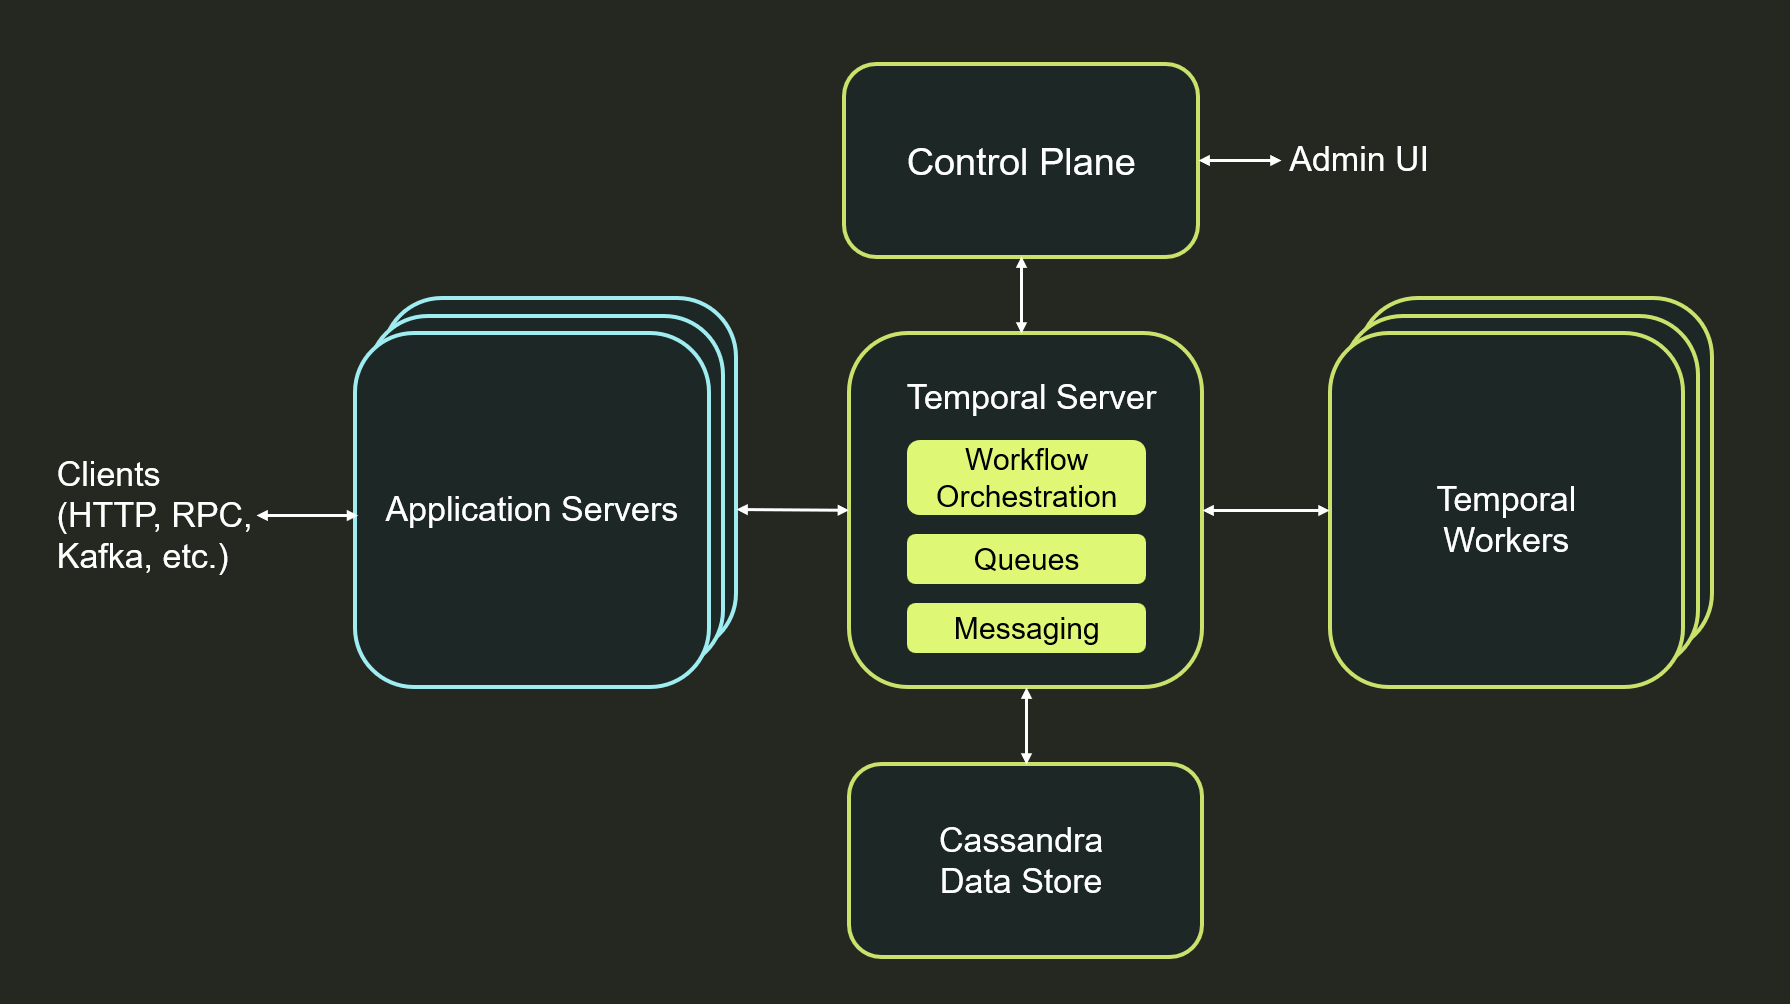
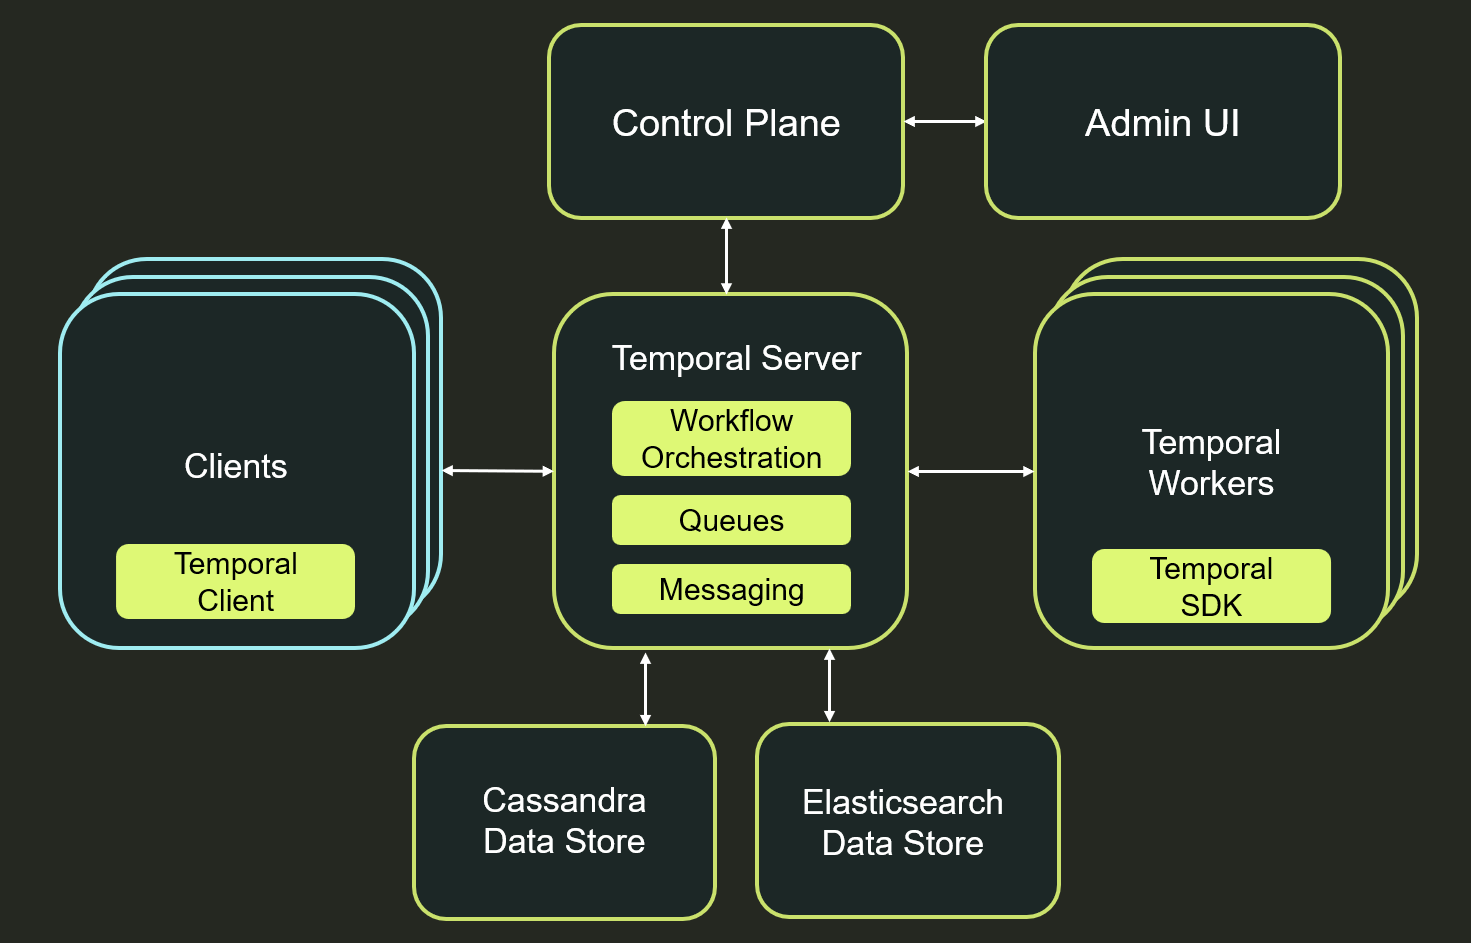
progress

diff --git a/docs/explanations/comparing-temporal.md b/docs/explanations/comparing-temporal.md
@@ -5,7 +5,7 @@ hide_table_of_contents: false
 ---
 
 DBOS and Temporal both provide durable workflows.
-The main difference is that DBOS is a lightweight Postgres-backed library, while Temporal is an external orchestration service.
+The main difference is that Temporal implements durable workflows in a heavyweight orchestration service, whereas DBOS implements them in a Postgres-backed library.
 In our opinion, the DBOS architecture is simpler to adopt and operate.
 
 :::info
@@ -14,22 +14,24 @@ To learn how to migrate an application from Temporal to DBOS, see the [migration
 
 ### Simpler Architecture
 
-To add DBOS to an application, you install the open-source library and annotate workflows and steps.
-The library checkpoints workflows to your database and recovers workflows from failures.
-Because DBOS is just a library, you don't need to change how your application is architected or deployed&mdash;it can run on any infrastructure connected to any Postgres-compatible database.
-
-<img src={require('@site/static/img/architecture/dbos-architecture.png').default} alt="DBOS Architecture" width="750" className="custom-img"/>
-
-By contrast, Temporal is designed around a central workflow server that orchestrates workflow execution on a cluster of workers.
+Temporal is designed around a central workflow server that orchestrates workflow execution on a cluster of workers.
 The central server runs workflow code, dispatching steps to workers.
 Workers execute steps, then return their output to the orchestrator, which durably checkpoints it then dispatches the next step.
 
 Because of this design, adding Temporal to an application requires rearchitecting it.
-First, you build infrastructure to operate and scale a cluster of Temporal workers, on which you must run all your workflow and activity (step) code.
-Then, you must also rewrite all interactions between your application and its workflows to go through the orchestration server and its client APIs.
-Finally, you must operate and scale the orchestration server and its underlying Cassandra data store (Temporal supports other backends, but Cassandra is strongly recommended in production).
+First, you must move all your workflow and activity (step) code to run on a cluster of Temporal workers.
+You must also rewrite all interactions between your application and its workflows to go through the orchestration server and its client APIs.
+Then, you must manage and scale both the Temporal server and the datastores it relies on (most commonly Cassandra for durability and Elasticsearch for observability).
+The Temporal server and its data stores are on the critical path for workflow execution and are single points of failure for your system; if either has downtime your application becomes unavailable.
 
 <img src={require('@site/static/img/architecture/temporal-architecture.png').default} alt="External Orchestrator Architecture" width="750" className="custom-img"/>
+
+By contrast, DBOS is an open-source Postgres-backed library.
+To add DBOS to an application, you install the open-source library and annotate workflows and steps.
+The library uses Postgres to checkpoint workflow progress and recover workflows from failure.
+Because DBOS uses Postgres for orchestration, you don't need to change how your application is architected or deployed&mdash;it can run on any infrastructure connected to any Postgres-compatible database.
+
+<img src={require('@site/static/img/architecture/dbos-comparison-architecture.png').default} alt="DBOS Architecture" width="750" className="custom-img"/>
 
 ### >10x Better Latency
 